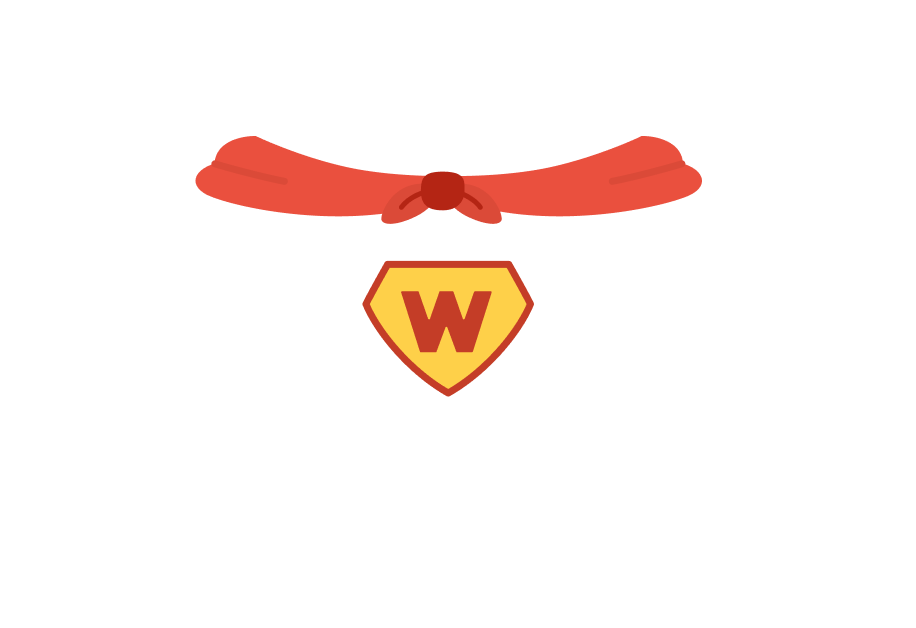
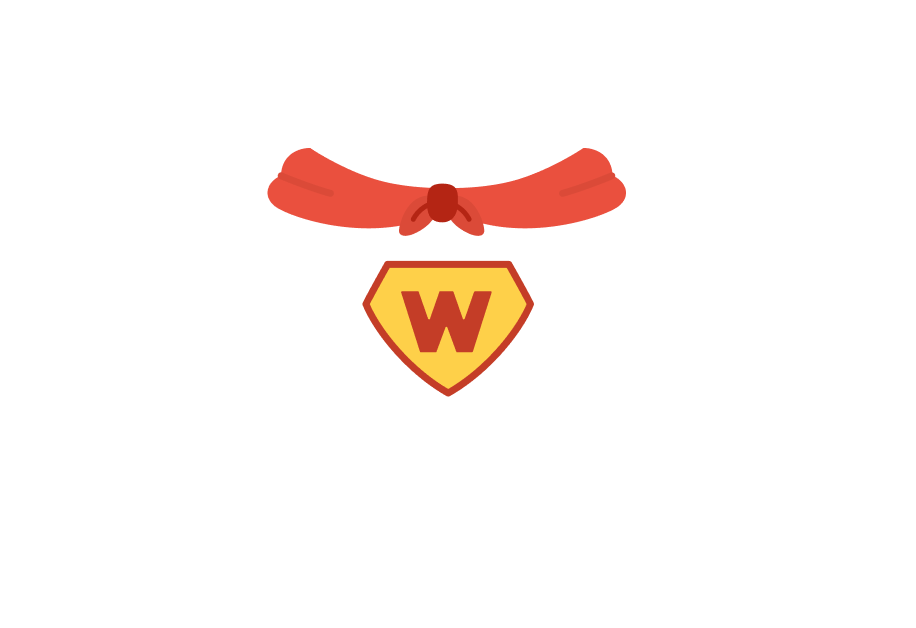
final update fix

Changed region(s): [[0.3057, 0.2723, 0.6725, 0.3933], [0.6114, 0.2118, 0.7642, 0.3328], [0.214, 0.2118, 0.3668, 0.3328]]

diff --git a/src/index.ts b/src/index.ts
@@ -93,7 +93,7 @@ const headImageUrls: string[] = [
   new URL("./images/Head1.png", import.meta.url).href,
 ];
 
-const riveSrc = new URL("../duck_mascot_final.riv", import.meta.url).href;
+const riveSrc = new URL("../duck_mascot_FINAL.riv", import.meta.url).href;
 
 const logDebug = (
   label: string,